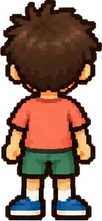
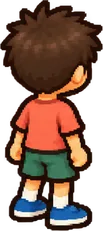
feat: turn the erabu step 05 family to face the town diagonally for ticket 028

diff --git a/src/lib/illust/assets.ts b/src/lib/illust/assets.ts
@@ -47,7 +47,7 @@ export const ILLUST_PICTURES = {
 export type IllustPictureId = keyof typeof ILLUST_PICTURES;
 
 // 家族の人物（4地区で使い回す）。大人1人目はお母さん、2人目はお父さん。子ども1人目は赤い服の男の子、2人目はおさげの女の子
-// （2026-10-29 まさゆきさん決定）。stand は立つ、joy は出てきたときのよろこぶポーズ、back は後ろ姿（05 で町を見わたす。見本どおり）
+// （2026-10-29 まさゆきさん決定）。stand は立つ、joy は出てきたときのよろこぶポーズ、back は右奥を向いた斜め後ろ姿（05 で町を見わたす。2026-10-30 まさゆきさん）
 export const PEOPLE = ["father", "mother", "boy", "girl"] as const;
 export type Person = (typeof PEOPLE)[number];
 export const POSES = ["stand", "joy", "back"] as const;
@@ -66,10 +66,10 @@ export const SPRITE_SOURCES: Record<SpriteId, { sheet: string; index: number; al
   "boy-joy": { sheet: "characters-sheet-2.png", index: 1, alt: "跳ねる、赤い服の男の子" },
   "girl-stand": { sheet: "characters-sheet-1.png", index: 5, alt: "手を振る、おさげの女の子" },
   "girl-joy": { sheet: "characters-sheet-2.png", index: 2, alt: "手を振って歩く、おさげの女の子" },
-  "father-back": { sheet: "characters-sheet-4.png", index: 0, alt: "後ろ姿の、緑の上着のお父さん" },
-  "mother-back": { sheet: "characters-sheet-4.png", index: 1, alt: "後ろ姿の、青いスカートのお母さん" },
-  "boy-back": { sheet: "characters-sheet-4.png", index: 2, alt: "後ろ姿の、赤い服の男の子" },
-  "girl-back": { sheet: "characters-sheet-4.png", index: 5, alt: "後ろ姿の、おさげの女の子" },
+  "father-back": { sheet: "characters-sheet-5.png", index: 0, alt: "右奥を向いた後ろ姿の、緑の上着のお父さん" },
+  "mother-back": { sheet: "characters-sheet-5.png", index: 1, alt: "右奥を向いた後ろ姿の、青いスカートのお母さん" },
+  "boy-back": { sheet: "characters-sheet-5.png", index: 2, alt: "右奥を向いた後ろ姿の、赤い服の男の子" },
+  "girl-back": { sheet: "characters-sheet-5.png", index: 5, alt: "右奥を向いた後ろ姿の、おさげの女の子" },
 };
 
 // シートの大きさのまま切り出すと大きすぎるので、全員同じ倍率で縮める（大人と子どもの背の比を保つため）

diff --git a/src/lib/illust/sprites.ts b/src/lib/illust/sprites.ts
@@ -12,10 +12,10 @@ export const SPRITE_SIZES: Record<SpriteId, { width: number; height: number }> =
   "boy-joy": { width: 151, height: 219 },
   "girl-stand": { width: 148, height: 210 },
   "girl-joy": { width: 140, height: 210 },
-  "father-back": { width: 134, height: 309 },
-  "mother-back": { width: 122, height: 287 },
-  "boy-back": { width: 102, height: 221 },
-  "girl-back": { width: 146, height: 209 },
+  "father-back": { width: 122, height: 318 },
+  "mother-back": { width: 123, height: 293 },
+  "boy-back": { width: 103, height: 231 },
+  "girl-back": { width: 127, height: 218 },
 };
 
 // ふちを切り落とした家の大きさ（元の画像の px）。縦横の比を画面で使う

diff --git a/assets/illust/README.md b/assets/illust/README.md
@@ -12,7 +12,7 @@
 | `house-new.png`・`house-old.png`・`house-rent.png` | えらぶ 03 のプレビューと選択肢 | 買う・新しめ／買う・古め／借りる の家（透過、1536×1024）。4地区で使い回す |
 | `car.png` | えらぶ 04 のプレビューと選択肢・地図のカード | 白い車・青い車・横長の駅とバス停（透過、2172×724）。透明な隙間で3つに切り分ける。4地区で使い回す |
 | `bus-stop.png` | えらぶ 04 の「0台」の選択肢 | 駅の建物とバス停の標識・待合所（透過、1254×1254） |
-| `characters-sheet-1.png`〜`4.png` | えらぶ 02〜05 | 家族の人物（透過、2172×724）。1枚に4〜6人並んでいて、透明な隙間で切り分ける。4地区で使い回す |
+| `characters-sheet-1.png`〜`5.png` | えらぶ 02〜05 | 家族の人物（透過、2172×724）。1枚に4〜6人並んでいて、透明な隙間で切り分ける。4地区で使い回す |
 | `priority-icons.png` | えらぶ 05 の選択肢とプレビューの印 | 家・校舎・バス・非常口の印・3人（透過、2172×724）。透明な隙間で5つに切り分ける。4地区で使い回す |
 
 人物（シートの左から）：
@@ -22,4 +22,5 @@
 | 1 | お父さん（立つ）・お母さん（立つ）・男の子・赤（立つ）・男の子・黄（手を振る）・女の子・ボブ（立つ）・女の子・おさげ（手を振る） |
 | 2 | お父さん（手を振る）・男の子・赤（跳ねる）・女の子・おさげ（手を振って歩く）・お母さん（手を広げる） |
 | 3 | お父さん（親指）・お母さん（手を組む）・男の子・黄（ガッツポーズ）・女の子・ボブ（拍手） |
-| 4 | 後ろ姿：お父さん・お母さん・男の子・赤・男の子・黄・女の子・ボブ・女の子・おさげ（05 で使う） |
+| 4 | 真後ろ姿：お父さん・お母さん・男の子・赤・男の子・黄・女の子・ボブ・女の子・おさげ（今は使わない。05 は 5 の斜め後ろ姿にした） |
+| 5 | 右奥を向いた斜め後ろ姿：並びは 4 と同じ（05 で使う） |

diff --git a/docs/028_illustrated-game-ui.md b/docs/028_illustrated-game-ui.md
@@ -122,7 +122,7 @@
 ## 作ったもの（えらぶ 05。2026-10-29）
 
 - 背景：05 だけ `erabu-kamisato-priorities`（`erabuBaseFor(district, "priorities")`。05 の背景がない地区は 02〜04 と同じ背景）。元の絵は 16:9 なので `npm run illust` が左を 220px 落として 3:2 に切り出す（右の広場の避難場所の標識を入れるため）。一覧は `assets.ts` の `crop`
-- 家族：05 では後ろ姿（`characters-sheet-4.png`、ポーズ `back`）。`FamilyLayer` の `facing="back"`。よろこぶポーズにはせず、後ろ姿のままぽんと出る
+- 家族：05 では右奥（駅・避難場所のほう）を向いた斜め後ろ姿（`characters-sheet-5.png`、ポーズ `back`。2026-10-30 まさゆきさん。最初は `characters-sheet-4.png` の真後ろ姿だった）。広場のいちばん奥に、大人の背が背景の 20% の大きさで立たせ、車は家の前の手前側に置く（同日まさゆきさん：05 の主役は家でもキャラでも車でもなく町）。`FamilyLayer` の `facing="back"`。よろこぶポーズにはせず、後ろ姿のままぽんと出る
 - 家と車：04 と同じ絵のまま、05 の背景では見本どおり左に寄せる（家は左の端、車は家の前。家族と重ならない）。位置は `house.ts`・`car.ts` の背景ごとの値
 - 印：`src/lib/illust/priorities.ts`（場所）・`PriorityMarkLayer`（光る薄緑の丸に絵。選ぶとぽんと出てキラキラ、外すと 0.24秒で消える）。消える動きのあいだ残す処理は家族と共通の `useLeavingItems` にした。場所（Claude の案）：住まい＝家の屋根のあたり、子育て・学校＝時計のある校舎、交通＝駅、防災＝広場の避難場所の標識、人口＝校舎の右奥の家並み。上郷以外の地区（飯田市全体の絵）の印の場所は仮
 - 選択肢：絵は `priority-icons.png` を5つに切り分けた `priority-{分野}-{128,256}.webp`。カードは2列で人口だけ2列ぶん。375px 未満では絵と文字を少し小さくして「子育て・学校」を1行に収める
